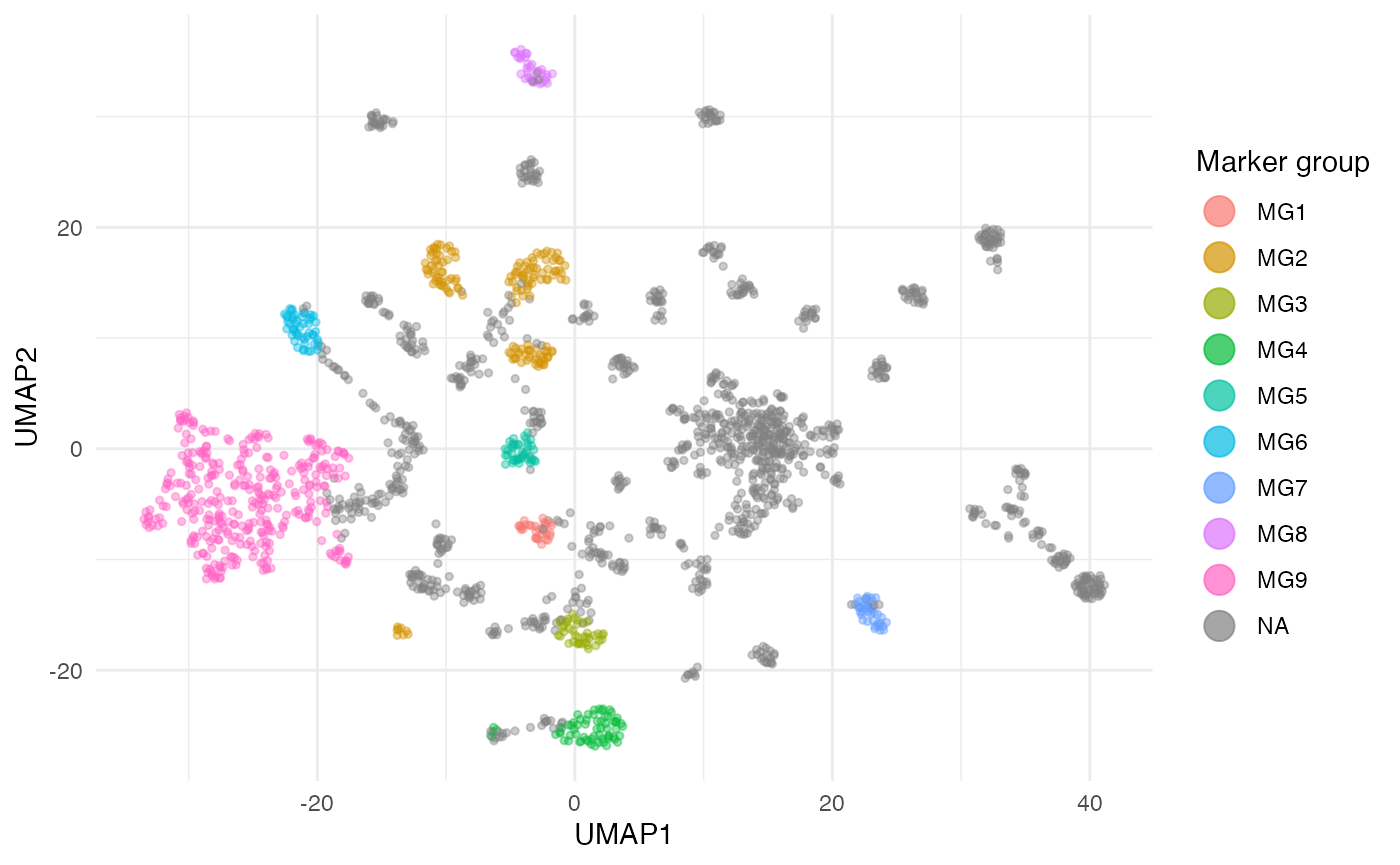
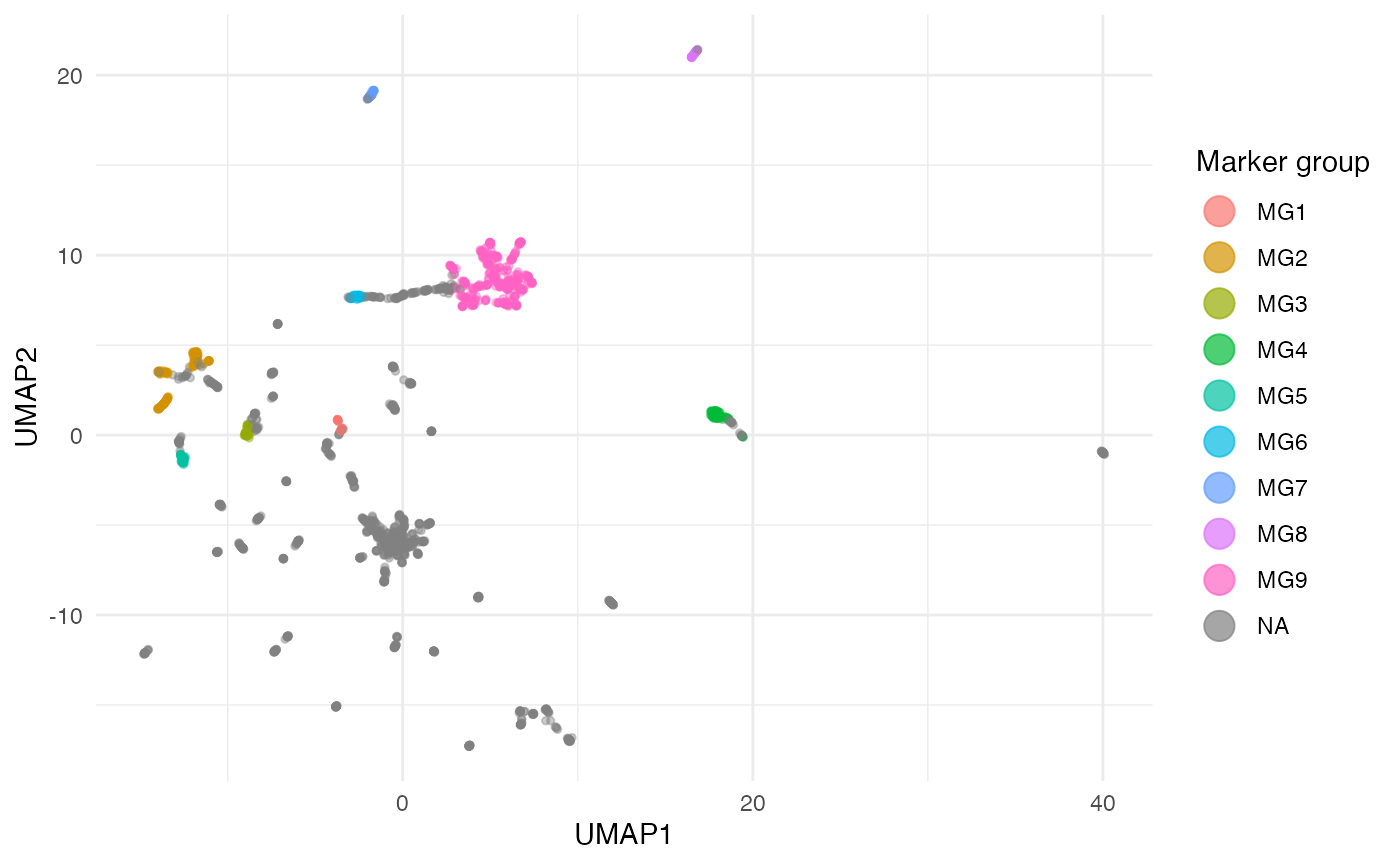
Built site for crosshap: 1.0.0@

diff --git a/reference/prepare_hap_umap.html b/reference/prepare_hap_umap.html
@@ -1,19 +1,19 @@
 <!DOCTYPE html>
 <!-- Generated by pkgdown: do not edit by hand --><html lang="en"><head><meta http-equiv="Content-Type" content="text/html; charset=UTF-8"><meta charset="utf-8"><meta http-equiv="X-UA-Compatible" content="IE=edge"><meta name="viewport" content="width=device-width, initial-scale=1, shrink-to-fit=no"><meta name="description" content="prepare_hap_umap() builds a large composite ggplot2 object ready for faceting
-and animation (see examples) for visualizing SNP alleles (coloured by marker
-group) possessed by randomly sampled individuals within each haplotype. UMAP
+and animation (see examples) for visualizing SNP alleles (coloured by Marker
+Group) possessed by randomly sampled individuals within each haplotype. UMAP
 coordinates for each SNP can be generated using umap::umap(), with the LD
 matrix generated for run_haplotyping() as input. When fully rendered and
 faceted, the resultant GIF intuitively visualizes the consistent alleles for
-marker groups SNPs for each haplotype combination, despite variation across
-non-marker group SNP alleles."><title>UMAP haplotype visualization helper — prepare_hap_umap • crosshap</title><script src="../deps/jquery-3.6.0/jquery-3.6.0.min.js"></script><meta name="viewport" content="width=device-width, initial-scale=1, shrink-to-fit=no"><link href="../deps/bootstrap-5.2.2/bootstrap.min.css" rel="stylesheet"><script src="../deps/bootstrap-5.2.2/bootstrap.bundle.min.js"></script><!-- Font Awesome icons --><link rel="stylesheet" href="https://cdnjs.cloudflare.com/ajax/libs/font-awesome/5.12.1/css/all.min.css" integrity="sha256-mmgLkCYLUQbXn0B1SRqzHar6dCnv9oZFPEC1g1cwlkk=" crossorigin="anonymous"><link rel="stylesheet" href="https://cdnjs.cloudflare.com/ajax/libs/font-awesome/5.12.1/css/v4-shims.min.css" integrity="sha256-wZjR52fzng1pJHwx4aV2AO3yyTOXrcDW7jBpJtTwVxw=" crossorigin="anonymous"><!-- bootstrap-toc --><script src="https://cdn.jsdelivr.net/gh/afeld/bootstrap-toc@v1.0.1/dist/bootstrap-toc.min.js" integrity="sha256-4veVQbu7//Lk5TSmc7YV48MxtMy98e26cf5MrgZYnwo=" crossorigin="anonymous"></script><!-- headroom.js --><script src="https://cdnjs.cloudflare.com/ajax/libs/headroom/0.11.0/headroom.min.js" integrity="sha256-AsUX4SJE1+yuDu5+mAVzJbuYNPHj/WroHuZ8Ir/CkE0=" crossorigin="anonymous"></script><script src="https://cdnjs.cloudflare.com/ajax/libs/headroom/0.11.0/jQuery.headroom.min.js" integrity="sha256-ZX/yNShbjqsohH1k95liqY9Gd8uOiE1S4vZc+9KQ1K4=" crossorigin="anonymous"></script><!-- clipboard.js --><script src="https://cdnjs.cloudflare.com/ajax/libs/clipboard.js/2.0.6/clipboard.min.js" integrity="sha256-inc5kl9MA1hkeYUt+EC3BhlIgyp/2jDIyBLS6k3UxPI=" crossorigin="anonymous"></script><!-- search --><script src="https://cdnjs.cloudflare.com/ajax/libs/fuse.js/6.4.6/fuse.js" integrity="sha512-zv6Ywkjyktsohkbp9bb45V6tEMoWhzFzXis+LrMehmJZZSys19Yxf1dopHx7WzIKxr5tK2dVcYmaCk2uqdjF4A==" crossorigin="anonymous"></script><script src="https://cdnjs.cloudflare.com/ajax/libs/autocomplete.js/0.38.0/autocomplete.jquery.min.js" integrity="sha512-GU9ayf+66Xx2TmpxqJpliWbT5PiGYxpaG8rfnBEk1LL8l1KGkRShhngwdXK1UgqhAzWpZHSiYPc09/NwDQIGyg==" crossorigin="anonymous"></script><script src="https://cdnjs.cloudflare.com/ajax/libs/mark.js/8.11.1/mark.min.js" integrity="sha512-5CYOlHXGh6QpOFA/TeTylKLWfB3ftPsde7AnmhuitiTX4K5SqCLBeKro6sPS8ilsz1Q4NRx3v8Ko2IBiszzdww==" crossorigin="anonymous"></script><!-- pkgdown --><script src="../pkgdown.js"></script><meta property="og:title" content="UMAP haplotype visualization helper — prepare_hap_umap"><meta property="og:description" content="prepare_hap_umap() builds a large composite ggplot2 object ready for faceting
-and animation (see examples) for visualizing SNP alleles (coloured by marker
-group) possessed by randomly sampled individuals within each haplotype. UMAP
+Marker Groups SNPs for each haplotype combination, despite variation across
+non-Marker Group SNP alleles."><title>UMAP haplotype visualization helper — prepare_hap_umap • crosshap</title><script src="../deps/jquery-3.6.0/jquery-3.6.0.min.js"></script><meta name="viewport" content="width=device-width, initial-scale=1, shrink-to-fit=no"><link href="../deps/bootstrap-5.2.2/bootstrap.min.css" rel="stylesheet"><script src="../deps/bootstrap-5.2.2/bootstrap.bundle.min.js"></script><!-- Font Awesome icons --><link rel="stylesheet" href="https://cdnjs.cloudflare.com/ajax/libs/font-awesome/5.12.1/css/all.min.css" integrity="sha256-mmgLkCYLUQbXn0B1SRqzHar6dCnv9oZFPEC1g1cwlkk=" crossorigin="anonymous"><link rel="stylesheet" href="https://cdnjs.cloudflare.com/ajax/libs/font-awesome/5.12.1/css/v4-shims.min.css" integrity="sha256-wZjR52fzng1pJHwx4aV2AO3yyTOXrcDW7jBpJtTwVxw=" crossorigin="anonymous"><!-- bootstrap-toc --><script src="https://cdn.jsdelivr.net/gh/afeld/bootstrap-toc@v1.0.1/dist/bootstrap-toc.min.js" integrity="sha256-4veVQbu7//Lk5TSmc7YV48MxtMy98e26cf5MrgZYnwo=" crossorigin="anonymous"></script><!-- headroom.js --><script src="https://cdnjs.cloudflare.com/ajax/libs/headroom/0.11.0/headroom.min.js" integrity="sha256-AsUX4SJE1+yuDu5+mAVzJbuYNPHj/WroHuZ8Ir/CkE0=" crossorigin="anonymous"></script><script src="https://cdnjs.cloudflare.com/ajax/libs/headroom/0.11.0/jQuery.headroom.min.js" integrity="sha256-ZX/yNShbjqsohH1k95liqY9Gd8uOiE1S4vZc+9KQ1K4=" crossorigin="anonymous"></script><!-- clipboard.js --><script src="https://cdnjs.cloudflare.com/ajax/libs/clipboard.js/2.0.6/clipboard.min.js" integrity="sha256-inc5kl9MA1hkeYUt+EC3BhlIgyp/2jDIyBLS6k3UxPI=" crossorigin="anonymous"></script><!-- search --><script src="https://cdnjs.cloudflare.com/ajax/libs/fuse.js/6.4.6/fuse.js" integrity="sha512-zv6Ywkjyktsohkbp9bb45V6tEMoWhzFzXis+LrMehmJZZSys19Yxf1dopHx7WzIKxr5tK2dVcYmaCk2uqdjF4A==" crossorigin="anonymous"></script><script src="https://cdnjs.cloudflare.com/ajax/libs/autocomplete.js/0.38.0/autocomplete.jquery.min.js" integrity="sha512-GU9ayf+66Xx2TmpxqJpliWbT5PiGYxpaG8rfnBEk1LL8l1KGkRShhngwdXK1UgqhAzWpZHSiYPc09/NwDQIGyg==" crossorigin="anonymous"></script><script src="https://cdnjs.cloudflare.com/ajax/libs/mark.js/8.11.1/mark.min.js" integrity="sha512-5CYOlHXGh6QpOFA/TeTylKLWfB3ftPsde7AnmhuitiTX4K5SqCLBeKro6sPS8ilsz1Q4NRx3v8Ko2IBiszzdww==" crossorigin="anonymous"></script><!-- pkgdown --><script src="../pkgdown.js"></script><meta property="og:title" content="UMAP haplotype visualization helper — prepare_hap_umap"><meta property="og:description" content="prepare_hap_umap() builds a large composite ggplot2 object ready for faceting
+and animation (see examples) for visualizing SNP alleles (coloured by Marker
+Group) possessed by randomly sampled individuals within each haplotype. UMAP
 coordinates for each SNP can be generated using umap::umap(), with the LD
 matrix generated for run_haplotyping() as input. When fully rendered and
 faceted, the resultant GIF intuitively visualizes the consistent alleles for
-marker groups SNPs for each haplotype combination, despite variation across
-non-marker group SNP alleles."><!-- mathjax --><script src="https://cdnjs.cloudflare.com/ajax/libs/mathjax/2.7.5/MathJax.js" integrity="sha256-nvJJv9wWKEm88qvoQl9ekL2J+k/RWIsaSScxxlsrv8k=" crossorigin="anonymous"></script><script src="https://cdnjs.cloudflare.com/ajax/libs/mathjax/2.7.5/config/TeX-AMS-MML_HTMLorMML.js" integrity="sha256-84DKXVJXs0/F8OTMzX4UR909+jtl4G7SPypPavF+GfA=" crossorigin="anonymous"></script><!--[if lt IE 9]>
+Marker Groups SNPs for each haplotype combination, despite variation across
+non-Marker Group SNP alleles."><!-- mathjax --><script src="https://cdnjs.cloudflare.com/ajax/libs/mathjax/2.7.5/MathJax.js" integrity="sha256-nvJJv9wWKEm88qvoQl9ekL2J+k/RWIsaSScxxlsrv8k=" crossorigin="anonymous"></script><script src="https://cdnjs.cloudflare.com/ajax/libs/mathjax/2.7.5/config/TeX-AMS-MML_HTMLorMML.js" integrity="sha256-84DKXVJXs0/F8OTMzX4UR909+jtl4G7SPypPavF+GfA=" crossorigin="anonymous"></script><!--[if lt IE 9]>
 <script src="https://oss.maxcdn.com/html5shiv/3.7.3/html5shiv.min.js"></script>
 <script src="https://oss.maxcdn.com/respond/1.4.2/respond.min.js"></script>
 <![endif]--></head><body>
@@ -60,13 +60,13 @@ non-marker group SNP alleles."><!-- mathjax --><script src="https://cdnjs.cloudf
 
     <div class="ref-description section level2">
     <p>prepare_hap_umap() builds a large composite ggplot2 object ready for faceting
-and animation (see examples) for visualizing SNP alleles (coloured by marker
-group) possessed by randomly sampled individuals within each haplotype. UMAP
+and animation (see examples) for visualizing SNP alleles (coloured by Marker
+Group) possessed by randomly sampled individuals within each haplotype. UMAP
 coordinates for each SNP can be generated using umap::umap(), with the LD
 matrix generated for run_haplotyping() as input. When fully rendered and
 faceted, the resultant GIF intuitively visualizes the consistent alleles for
-marker groups SNPs for each haplotype combination, despite variation across
-non-marker group SNP alleles.</p>
+Marker Groups SNPs for each haplotype combination, despite variation across
+non-Marker Group SNP alleles.</p>
     </div>
 
     <div class="section level2">

diff --git a/reference/run_haplotyping.html b/reference/run_haplotyping.html
@@ -136,20 +136,26 @@ epsilon value, needed for clustree_viz() and crosshap_viz().</p>
     <div class="section level2">
     <h2 id="ref-examples">Examples<a class="anchor" aria-label="anchor" href="#ref-examples"></a></h2>
     <div class="sourceCode"><pre class="sourceCode r"><code><span class="r-in"><span><span class="fu">run_haplotyping</span><span class="op">(</span><span class="va">vcf</span>, <span class="va">LD</span>, <span class="va">pheno</span>, <span class="va">metadata</span>, MGmin <span class="op">=</span> <span class="fl">30</span><span class="op">)</span></span></span>
-<span class="r-msg co"><span class="r-pr">#&gt;</span> <span style="color: #00BB00;">■■■■■■                          </span>  18% | ETA:  5s</span>
-<span class="r-msg co"><span class="r-pr">#&gt;</span> <span style="color: #00BB00;">■■■■■■■■                        </span>  23% | ETA:  5s</span>
-<span class="r-msg co"><span class="r-pr">#&gt;</span> <span style="color: #00BB00;">■■■■■■■■■                       </span>  27% | ETA:  8s</span>
-<span class="r-msg co"><span class="r-pr">#&gt;</span> <span style="color: #00BB00;">■■■■■■■■■■■■                    </span>  36% | ETA:  6s</span>
-<span class="r-msg co"><span class="r-pr">#&gt;</span> <span style="color: #00BB00;">■■■■■■■■■■■■■                   </span>  41% | ETA:  6s</span>
-<span class="r-msg co"><span class="r-pr">#&gt;</span> <span style="color: #00BB00;">■■■■■■■■■■■■■■■                 </span>  45% | ETA:  6s</span>
-<span class="r-msg co"><span class="r-pr">#&gt;</span> <span style="color: #00BB00;">■■■■■■■■■■■■■■■■■               </span>  55% | ETA:  5s</span>
-<span class="r-msg co"><span class="r-pr">#&gt;</span> <span style="color: #00BB00;">■■■■■■■■■■■■■■■■■■■             </span>  59% | ETA:  5s</span>
-<span class="r-msg co"><span class="r-pr">#&gt;</span> <span style="color: #00BB00;">■■■■■■■■■■■■■■■■■■■■            </span>  64% | ETA:  5s</span>
-<span class="r-msg co"><span class="r-pr">#&gt;</span> <span style="color: #00BB00;">■■■■■■■■■■■■■■■■■■■■■■■         </span>  73% | ETA:  4s</span>
-<span class="r-msg co"><span class="r-pr">#&gt;</span> <span style="color: #00BB00;">■■■■■■■■■■■■■■■■■■■■■■■■        </span>  77% | ETA:  3s</span>
-<span class="r-msg co"><span class="r-pr">#&gt;</span> <span style="color: #00BB00;">■■■■■■■■■■■■■■■■■■■■■■■■■■      </span>  82% | ETA:  3s</span>
-<span class="r-msg co"><span class="r-pr">#&gt;</span> <span style="color: #00BB00;">■■■■■■■■■■■■■■■■■■■■■■■■■■■■    </span>  91% | ETA:  1s</span>
-<span class="r-msg co"><span class="r-pr">#&gt;</span> <span style="color: #00BB00;">■■■■■■■■■■■■■■■■■■■■■■■■■■■■■■  </span>  95% | ETA:  1s</span>
+<span class="r-msg co"><span class="r-pr">#&gt;</span> <span style="color: #00BB00;">■■■■■                           </span>  13% | ETA:  7s</span>
+<span class="r-msg co"><span class="r-pr">#&gt;</span> <span style="color: #00BB00;">■■■■■■                          </span>  17% | ETA:  8s</span>
+<span class="r-msg co"><span class="r-pr">#&gt;</span> <span style="color: #00BB00;">■■■■■■■                         </span>  20% | ETA: 11s</span>
+<span class="r-msg co"><span class="r-pr">#&gt;</span> <span style="color: #00BB00;">■■■■■■■■■                       </span>  27% | ETA: 10s</span>
+<span class="r-msg co"><span class="r-pr">#&gt;</span> <span style="color: #00BB00;">■■■■■■■■■■                      </span>  30% | ETA: 10s</span>
+<span class="r-msg co"><span class="r-pr">#&gt;</span> <span style="color: #00BB00;">■■■■■■■■■■■                     </span>  33% | ETA: 11s</span>
+<span class="r-msg co"><span class="r-pr">#&gt;</span> <span style="color: #00BB00;">■■■■■■■■■■■■■                   </span>  40% | ETA: 10s</span>
+<span class="r-msg co"><span class="r-pr">#&gt;</span> <span style="color: #00BB00;">■■■■■■■■■■■■■■                  </span>  43% | ETA: 10s</span>
+<span class="r-msg co"><span class="r-pr">#&gt;</span> <span style="color: #00BB00;">■■■■■■■■■■■■■■■                 </span>  47% | ETA: 10s</span>
+<span class="r-msg co"><span class="r-pr">#&gt;</span> <span style="color: #00BB00;">■■■■■■■■■■■■■■■■■               </span>  53% | ETA:  9s</span>
+<span class="r-msg co"><span class="r-pr">#&gt;</span> <span style="color: #00BB00;">■■■■■■■■■■■■■■■■■■              </span>  57% | ETA:  8s</span>
+<span class="r-msg co"><span class="r-pr">#&gt;</span> <span style="color: #00BB00;">■■■■■■■■■■■■■■■■■■■             </span>  60% | ETA:  8s</span>
+<span class="r-msg co"><span class="r-pr">#&gt;</span> <span style="color: #00BB00;">■■■■■■■■■■■■■■■■■■■■■           </span>  67% | ETA:  7s</span>
+<span class="r-msg co"><span class="r-pr">#&gt;</span> <span style="color: #00BB00;">■■■■■■■■■■■■■■■■■■■■■■          </span>  70% | ETA:  6s</span>
+<span class="r-msg co"><span class="r-pr">#&gt;</span> <span style="color: #00BB00;">■■■■■■■■■■■■■■■■■■■■■■■         </span>  73% | ETA:  6s</span>
+<span class="r-msg co"><span class="r-pr">#&gt;</span> <span style="color: #00BB00;">■■■■■■■■■■■■■■■■■■■■■■■■■       </span>  80% | ETA:  4s</span>
+<span class="r-msg co"><span class="r-pr">#&gt;</span> <span style="color: #00BB00;">■■■■■■■■■■■■■■■■■■■■■■■■■■      </span>  83% | ETA:  4s</span>
+<span class="r-msg co"><span class="r-pr">#&gt;</span> <span style="color: #00BB00;">■■■■■■■■■■■■■■■■■■■■■■■■■■■     </span>  87% | ETA:  3s</span>
+<span class="r-msg co"><span class="r-pr">#&gt;</span> <span style="color: #00BB00;">■■■■■■■■■■■■■■■■■■■■■■■■■■■■■   </span>  93% | ETA:  2s</span>
+<span class="r-msg co"><span class="r-pr">#&gt;</span> <span style="color: #00BB00;">■■■■■■■■■■■■■■■■■■■■■■■■■■■■■■  </span>  97% | ETA:  1s</span>
 <span class="r-msg co"><span class="r-pr">#&gt;</span> <span style="color: #00BB00;">■■■■■■■■■■■■■■■■■■■■■■■■■■■■■■■ </span> 100% | ETA:  0s</span>
 <span class="r-msg co"><span class="r-pr">#&gt;</span> <span style="color: #00BB00;">✔</span> Haplotyping complete!</span>
 <span class="r-msg co"><span class="r-pr">#&gt;</span> Info saved in Haplotypes_30_E objects</span>

diff --git a/reference/crosshap_viz.html b/reference/crosshap_viz.html
@@ -111,20 +111,26 @@ summary tables or marker group phenotype scores.</p></dd>
     <div class="section level2">
     <h2 id="ref-examples">Examples<a class="anchor" aria-label="anchor" href="#ref-examples"></a></h2>
     <div class="sourceCode"><pre class="sourceCode r"><code><span class="r-in"><span><span class="fu"><a href="run_haplotyping.html">run_haplotyping</a></span><span class="op">(</span><span class="va">vcf</span>, <span class="va">LD</span>, <span class="va">pheno</span>, <span class="va">metadata</span><span class="op">)</span></span></span>
-<span class="r-msg co"><span class="r-pr">#&gt;</span> <span style="color: #00BB00;">■■■■■■                          </span>  18% | ETA:  5s</span>
-<span class="r-msg co"><span class="r-pr">#&gt;</span> <span style="color: #00BB00;">■■■■■■■■                        </span>  23% | ETA:  5s</span>
-<span class="r-msg co"><span class="r-pr">#&gt;</span> <span style="color: #00BB00;">■■■■■■■■■                       </span>  27% | ETA:  8s</span>
-<span class="r-msg co"><span class="r-pr">#&gt;</span> <span style="color: #00BB00;">■■■■■■■■■■■■                    </span>  36% | ETA:  7s</span>
-<span class="r-msg co"><span class="r-pr">#&gt;</span> <span style="color: #00BB00;">■■■■■■■■■■■■■                   </span>  41% | ETA:  6s</span>
-<span class="r-msg co"><span class="r-pr">#&gt;</span> <span style="color: #00BB00;">■■■■■■■■■■■■■■■                 </span>  45% | ETA:  7s</span>
-<span class="r-msg co"><span class="r-pr">#&gt;</span> <span style="color: #00BB00;">■■■■■■■■■■■■■■■■■               </span>  55% | ETA:  6s</span>
-<span class="r-msg co"><span class="r-pr">#&gt;</span> <span style="color: #00BB00;">■■■■■■■■■■■■■■■■■■■             </span>  59% | ETA:  5s</span>
-<span class="r-msg co"><span class="r-pr">#&gt;</span> <span style="color: #00BB00;">■■■■■■■■■■■■■■■■■■■■            </span>  64% | ETA:  5s</span>
-<span class="r-msg co"><span class="r-pr">#&gt;</span> <span style="color: #00BB00;">■■■■■■■■■■■■■■■■■■■■■■■         </span>  73% | ETA:  4s</span>
-<span class="r-msg co"><span class="r-pr">#&gt;</span> <span style="color: #00BB00;">■■■■■■■■■■■■■■■■■■■■■■■■        </span>  77% | ETA:  3s</span>
-<span class="r-msg co"><span class="r-pr">#&gt;</span> <span style="color: #00BB00;">■■■■■■■■■■■■■■■■■■■■■■■■■■      </span>  82% | ETA:  3s</span>
-<span class="r-msg co"><span class="r-pr">#&gt;</span> <span style="color: #00BB00;">■■■■■■■■■■■■■■■■■■■■■■■■■■■■    </span>  91% | ETA:  1s</span>
-<span class="r-msg co"><span class="r-pr">#&gt;</span> <span style="color: #00BB00;">■■■■■■■■■■■■■■■■■■■■■■■■■■■■■■  </span>  95% | ETA:  1s</span>
+<span class="r-msg co"><span class="r-pr">#&gt;</span> <span style="color: #00BB00;">■■■■■                           </span>  13% | ETA:  7s</span>
+<span class="r-msg co"><span class="r-pr">#&gt;</span> <span style="color: #00BB00;">■■■■■■                          </span>  17% | ETA:  8s</span>
+<span class="r-msg co"><span class="r-pr">#&gt;</span> <span style="color: #00BB00;">■■■■■■■                         </span>  20% | ETA: 11s</span>
+<span class="r-msg co"><span class="r-pr">#&gt;</span> <span style="color: #00BB00;">■■■■■■■■■                       </span>  27% | ETA: 10s</span>
+<span class="r-msg co"><span class="r-pr">#&gt;</span> <span style="color: #00BB00;">■■■■■■■■■■                      </span>  30% | ETA: 10s</span>
+<span class="r-msg co"><span class="r-pr">#&gt;</span> <span style="color: #00BB00;">■■■■■■■■■■■                     </span>  33% | ETA: 11s</span>
+<span class="r-msg co"><span class="r-pr">#&gt;</span> <span style="color: #00BB00;">■■■■■■■■■■■■■                   </span>  40% | ETA: 10s</span>
+<span class="r-msg co"><span class="r-pr">#&gt;</span> <span style="color: #00BB00;">■■■■■■■■■■■■■■                  </span>  43% | ETA: 10s</span>
+<span class="r-msg co"><span class="r-pr">#&gt;</span> <span style="color: #00BB00;">■■■■■■■■■■■■■■■                 </span>  47% | ETA: 10s</span>
+<span class="r-msg co"><span class="r-pr">#&gt;</span> <span style="color: #00BB00;">■■■■■■■■■■■■■■■■■               </span>  53% | ETA:  9s</span>
+<span class="r-msg co"><span class="r-pr">#&gt;</span> <span style="color: #00BB00;">■■■■■■■■■■■■■■■■■■              </span>  57% | ETA:  8s</span>
+<span class="r-msg co"><span class="r-pr">#&gt;</span> <span style="color: #00BB00;">■■■■■■■■■■■■■■■■■■■             </span>  60% | ETA:  8s</span>
+<span class="r-msg co"><span class="r-pr">#&gt;</span> <span style="color: #00BB00;">■■■■■■■■■■■■■■■■■■■■■           </span>  67% | ETA:  7s</span>
+<span class="r-msg co"><span class="r-pr">#&gt;</span> <span style="color: #00BB00;">■■■■■■■■■■■■■■■■■■■■■■          </span>  70% | ETA:  6s</span>
+<span class="r-msg co"><span class="r-pr">#&gt;</span> <span style="color: #00BB00;">■■■■■■■■■■■■■■■■■■■■■■■         </span>  73% | ETA:  6s</span>
+<span class="r-msg co"><span class="r-pr">#&gt;</span> <span style="color: #00BB00;">■■■■■■■■■■■■■■■■■■■■■■■■■       </span>  80% | ETA:  4s</span>
+<span class="r-msg co"><span class="r-pr">#&gt;</span> <span style="color: #00BB00;">■■■■■■■■■■■■■■■■■■■■■■■■■■      </span>  83% | ETA:  4s</span>
+<span class="r-msg co"><span class="r-pr">#&gt;</span> <span style="color: #00BB00;">■■■■■■■■■■■■■■■■■■■■■■■■■■■     </span>  87% | ETA:  3s</span>
+<span class="r-msg co"><span class="r-pr">#&gt;</span> <span style="color: #00BB00;">■■■■■■■■■■■■■■■■■■■■■■■■■■■■■   </span>  93% | ETA:  2s</span>
+<span class="r-msg co"><span class="r-pr">#&gt;</span> <span style="color: #00BB00;">■■■■■■■■■■■■■■■■■■■■■■■■■■■■■■  </span>  97% | ETA:  1s</span>
 <span class="r-msg co"><span class="r-pr">#&gt;</span> <span style="color: #00BB00;">■■■■■■■■■■■■■■■■■■■■■■■■■■■■■■■ </span> 100% | ETA:  0s</span>
 <span class="r-msg co"><span class="r-pr">#&gt;</span> <span style="color: #00BB00;">✔</span> Haplotyping complete!</span>
 <span class="r-msg co"><span class="r-pr">#&gt;</span> Info saved in Haplotypes_30_E objects</span>

diff --git a/reference/build_mid_dotplot.html b/reference/build_mid_dotplot.html
@@ -4,12 +4,12 @@ between haplotype combinations and the characteristic marker group alleles
 that define them. Makes use of the $Hapfile information from a haplotype
 object. This is an internal function called by crosshap_viz(), though can
 be called separately to build a stand-alone plot (can be useful when patched
-to a a peripheral plot)."><title>Middle MG/hap dot plot — build_mid_dotplot • crosshap</title><script src="../deps/jquery-3.6.0/jquery-3.6.0.min.js"></script><meta name="viewport" content="width=device-width, initial-scale=1, shrink-to-fit=no"><link href="../deps/bootstrap-5.2.2/bootstrap.min.css" rel="stylesheet"><script src="../deps/bootstrap-5.2.2/bootstrap.bundle.min.js"></script><!-- Font Awesome icons --><link rel="stylesheet" href="https://cdnjs.cloudflare.com/ajax/libs/font-awesome/5.12.1/css/all.min.css" integrity="sha256-mmgLkCYLUQbXn0B1SRqzHar6dCnv9oZFPEC1g1cwlkk=" crossorigin="anonymous"><link rel="stylesheet" href="https://cdnjs.cloudflare.com/ajax/libs/font-awesome/5.12.1/css/v4-shims.min.css" integrity="sha256-wZjR52fzng1pJHwx4aV2AO3yyTOXrcDW7jBpJtTwVxw=" crossorigin="anonymous"><!-- bootstrap-toc --><script src="https://cdn.jsdelivr.net/gh/afeld/bootstrap-toc@v1.0.1/dist/bootstrap-toc.min.js" integrity="sha256-4veVQbu7//Lk5TSmc7YV48MxtMy98e26cf5MrgZYnwo=" crossorigin="anonymous"></script><!-- headroom.js --><script src="https://cdnjs.cloudflare.com/ajax/libs/headroom/0.11.0/headroom.min.js" integrity="sha256-AsUX4SJE1+yuDu5+mAVzJbuYNPHj/WroHuZ8Ir/CkE0=" crossorigin="anonymous"></script><script src="https://cdnjs.cloudflare.com/ajax/libs/headroom/0.11.0/jQuery.headroom.min.js" integrity="sha256-ZX/yNShbjqsohH1k95liqY9Gd8uOiE1S4vZc+9KQ1K4=" crossorigin="anonymous"></script><!-- clipboard.js --><script src="https://cdnjs.cloudflare.com/ajax/libs/clipboard.js/2.0.6/clipboard.min.js" integrity="sha256-inc5kl9MA1hkeYUt+EC3BhlIgyp/2jDIyBLS6k3UxPI=" crossorigin="anonymous"></script><!-- search --><script src="https://cdnjs.cloudflare.com/ajax/libs/fuse.js/6.4.6/fuse.js" integrity="sha512-zv6Ywkjyktsohkbp9bb45V6tEMoWhzFzXis+LrMehmJZZSys19Yxf1dopHx7WzIKxr5tK2dVcYmaCk2uqdjF4A==" crossorigin="anonymous"></script><script src="https://cdnjs.cloudflare.com/ajax/libs/autocomplete.js/0.38.0/autocomplete.jquery.min.js" integrity="sha512-GU9ayf+66Xx2TmpxqJpliWbT5PiGYxpaG8rfnBEk1LL8l1KGkRShhngwdXK1UgqhAzWpZHSiYPc09/NwDQIGyg==" crossorigin="anonymous"></script><script src="https://cdnjs.cloudflare.com/ajax/libs/mark.js/8.11.1/mark.min.js" integrity="sha512-5CYOlHXGh6QpOFA/TeTylKLWfB3ftPsde7AnmhuitiTX4K5SqCLBeKro6sPS8ilsz1Q4NRx3v8Ko2IBiszzdww==" crossorigin="anonymous"></script><!-- pkgdown --><script src="../pkgdown.js"></script><meta property="og:title" content="Middle MG/hap dot plot — build_mid_dotplot"><meta property="og:description" content="build_mid_dotplot() builds a central dot plot displaying the relationship
+to a peripheral plot)."><title>Middle MG/hap dot plot — build_mid_dotplot • crosshap</title><script src="../deps/jquery-3.6.0/jquery-3.6.0.min.js"></script><meta name="viewport" content="width=device-width, initial-scale=1, shrink-to-fit=no"><link href="../deps/bootstrap-5.2.2/bootstrap.min.css" rel="stylesheet"><script src="../deps/bootstrap-5.2.2/bootstrap.bundle.min.js"></script><!-- Font Awesome icons --><link rel="stylesheet" href="https://cdnjs.cloudflare.com/ajax/libs/font-awesome/5.12.1/css/all.min.css" integrity="sha256-mmgLkCYLUQbXn0B1SRqzHar6dCnv9oZFPEC1g1cwlkk=" crossorigin="anonymous"><link rel="stylesheet" href="https://cdnjs.cloudflare.com/ajax/libs/font-awesome/5.12.1/css/v4-shims.min.css" integrity="sha256-wZjR52fzng1pJHwx4aV2AO3yyTOXrcDW7jBpJtTwVxw=" crossorigin="anonymous"><!-- bootstrap-toc --><script src="https://cdn.jsdelivr.net/gh/afeld/bootstrap-toc@v1.0.1/dist/bootstrap-toc.min.js" integrity="sha256-4veVQbu7//Lk5TSmc7YV48MxtMy98e26cf5MrgZYnwo=" crossorigin="anonymous"></script><!-- headroom.js --><script src="https://cdnjs.cloudflare.com/ajax/libs/headroom/0.11.0/headroom.min.js" integrity="sha256-AsUX4SJE1+yuDu5+mAVzJbuYNPHj/WroHuZ8Ir/CkE0=" crossorigin="anonymous"></script><script src="https://cdnjs.cloudflare.com/ajax/libs/headroom/0.11.0/jQuery.headroom.min.js" integrity="sha256-ZX/yNShbjqsohH1k95liqY9Gd8uOiE1S4vZc+9KQ1K4=" crossorigin="anonymous"></script><!-- clipboard.js --><script src="https://cdnjs.cloudflare.com/ajax/libs/clipboard.js/2.0.6/clipboard.min.js" integrity="sha256-inc5kl9MA1hkeYUt+EC3BhlIgyp/2jDIyBLS6k3UxPI=" crossorigin="anonymous"></script><!-- search --><script src="https://cdnjs.cloudflare.com/ajax/libs/fuse.js/6.4.6/fuse.js" integrity="sha512-zv6Ywkjyktsohkbp9bb45V6tEMoWhzFzXis+LrMehmJZZSys19Yxf1dopHx7WzIKxr5tK2dVcYmaCk2uqdjF4A==" crossorigin="anonymous"></script><script src="https://cdnjs.cloudflare.com/ajax/libs/autocomplete.js/0.38.0/autocomplete.jquery.min.js" integrity="sha512-GU9ayf+66Xx2TmpxqJpliWbT5PiGYxpaG8rfnBEk1LL8l1KGkRShhngwdXK1UgqhAzWpZHSiYPc09/NwDQIGyg==" crossorigin="anonymous"></script><script src="https://cdnjs.cloudflare.com/ajax/libs/mark.js/8.11.1/mark.min.js" integrity="sha512-5CYOlHXGh6QpOFA/TeTylKLWfB3ftPsde7AnmhuitiTX4K5SqCLBeKro6sPS8ilsz1Q4NRx3v8Ko2IBiszzdww==" crossorigin="anonymous"></script><!-- pkgdown --><script src="../pkgdown.js"></script><meta property="og:title" content="Middle MG/hap dot plot — build_mid_dotplot"><meta property="og:description" content="build_mid_dotplot() builds a central dot plot displaying the relationship
 between haplotype combinations and the characteristic marker group alleles
 that define them. Makes use of the $Hapfile information from a haplotype
 object. This is an internal function called by crosshap_viz(), though can
 be called separately to build a stand-alone plot (can be useful when patched
-to a a peripheral plot)."><!-- mathjax --><script src="https://cdnjs.cloudflare.com/ajax/libs/mathjax/2.7.5/MathJax.js" integrity="sha256-nvJJv9wWKEm88qvoQl9ekL2J+k/RWIsaSScxxlsrv8k=" crossorigin="anonymous"></script><script src="https://cdnjs.cloudflare.com/ajax/libs/mathjax/2.7.5/config/TeX-AMS-MML_HTMLorMML.js" integrity="sha256-84DKXVJXs0/F8OTMzX4UR909+jtl4G7SPypPavF+GfA=" crossorigin="anonymous"></script><!--[if lt IE 9]>
+to a peripheral plot)."><!-- mathjax --><script src="https://cdnjs.cloudflare.com/ajax/libs/mathjax/2.7.5/MathJax.js" integrity="sha256-nvJJv9wWKEm88qvoQl9ekL2J+k/RWIsaSScxxlsrv8k=" crossorigin="anonymous"></script><script src="https://cdnjs.cloudflare.com/ajax/libs/mathjax/2.7.5/config/TeX-AMS-MML_HTMLorMML.js" integrity="sha256-84DKXVJXs0/F8OTMzX4UR909+jtl4G7SPypPavF+GfA=" crossorigin="anonymous"></script><!--[if lt IE 9]>
 <script src="https://oss.maxcdn.com/html5shiv/3.7.3/html5shiv.min.js"></script>
 <script src="https://oss.maxcdn.com/respond/1.4.2/respond.min.js"></script>
 <![endif]--></head><body>
@@ -60,7 +60,7 @@ between haplotype combinations and the characteristic marker group alleles
 that define them. Makes use of the $Hapfile information from a haplotype
 object. This is an internal function called by crosshap_viz(), though can
 be called separately to build a stand-alone plot (can be useful when patched
-to a a peripheral plot).</p>
+to a peripheral plot).</p>
     </div>
 
     <div class="section level2">

diff --git a/articles/hap_UMAP.html b/articles/hap_UMAP.html
@@ -122,7 +122,7 @@ can be a useful reference for later, and can help us optimize our UMAP
 before we use it to map our individuals.</p>
 <div class="sourceCode" id="cb2"><pre class="downlit sourceCode r">
 <code class="sourceCode R"><span><span class="co">#Run UMAP on LD matrix to get x &amp; y coordinates for plotting</span></span>
-<span><span class="va">umap_in</span> <span class="op">&lt;-</span> <span class="fu">umap</span><span class="fu">::</span><span class="fu"><a href="https://rdrr.io/pkg/umap/man/umap.html" class="external-link">umap</a></span><span class="op">(</span><span class="va">LD</span>, min_dist <span class="op">=</span> <span class="fl">2</span>, spread <span class="op">=</span> <span class="fl">2.5</span>, n_neighbors <span class="op">=</span> <span class="fl">30</span><span class="op">)</span></span>
+<span><span class="va">umap_in</span> <span class="op">&lt;-</span> <span class="fu">umap</span><span class="fu">::</span><span class="fu"><a href="https://rdrr.io/pkg/umap/man/umap.html" class="external-link">umap</a></span><span class="op">(</span><span class="va">LD</span>, .min_dist <span class="op">=</span> <span class="fl">2</span>, .spread <span class="op">=</span> <span class="fl">2.5</span>, .n_neighbors <span class="op">=</span> <span class="fl">30</span><span class="op">)</span></span>
 <span></span>
 <span><span class="co">#Add UMAP coordinates to SNPs with Marker Group information</span></span>
 <span><span class="va">MGumap_data</span> <span class="op">&lt;-</span> <span class="va">umap_in</span><span class="op">$</span><span class="va">layout</span> <span class="op"><a href="../reference/pipe.html">%&gt;%</a></span> <span class="fu">tibble</span><span class="fu">::</span><span class="fu"><a href="https://tibble.tidyverse.org/reference/as_tibble.html" class="external-link">as_tibble</a></span><span class="op">(</span><span class="op">)</span> <span class="op"><a href="../reference/pipe.html">%&gt;%</a></span></span>
@@ -133,7 +133,10 @@ before we use it to map our individuals.</p>
 <span>  <span class="fu">dplyr</span><span class="fu">::</span><span class="fu"><a href="https://dplyr.tidyverse.org/reference/mutate.html" class="external-link">mutate</a></span><span class="op">(</span>MGs <span class="op">=</span> <span class="fu"><a href="https://rdrr.io/r/base/grep.html" class="external-link">gsub</a></span><span class="op">(</span><span class="st">'0'</span>, <span class="cn">NA</span>, <span class="va">MGs</span><span class="op">)</span><span class="op">)</span></span></code></pre></div>
 <pre><code><span><span class="co">## Warning: The `x` argument of `as_tibble.matrix()` must have unique column names if</span></span>
 <span><span class="co">## `.name_repair` is omitted as of tibble 2.0.0.</span></span>
-<span><span class="co">## <span style="color: #00BBBB;">ℹ</span> Using compatibility `.name_repair`.</span></span></code></pre>
+<span><span class="co">## <span style="color: #00BBBB;">ℹ</span> Using compatibility `.name_repair`.</span></span>
+<span><span class="co">## <span style="color: #555555;">This warning is displayed once every 8 hours.</span></span></span>
+<span><span class="co">## <span style="color: #555555;">Call `lifecycle::last_lifecycle_warnings()` to see where this warning was</span></span></span>
+<span><span class="co">## <span style="color: #555555;">generated.</span></span></span></code></pre>
 <div class="sourceCode" id="cb4"><pre class="downlit sourceCode r">
 <code class="sourceCode R"><span><span class="co">#Plot SNPs by UMAP coordinates, coloured by Marker Group </span></span>
 <span><span class="va">MGumap</span> <span class="op">&lt;-</span><span class="fu">ggplot2</span><span class="fu">::</span><span class="fu"><a href="https://ggplot2.tidyverse.org/reference/ggplot.html" class="external-link">ggplot</a></span><span class="op">(</span><span class="va">MGumap_data</span>, <span class="fu">ggplot2</span><span class="fu">::</span><span class="fu"><a href="https://ggplot2.tidyverse.org/reference/aes.html" class="external-link">aes</a></span><span class="op">(</span>x <span class="op">=</span> <span class="va">UMAP1</span>, y <span class="op">=</span> <span class="va">UMAP2</span><span class="op">)</span><span class="op">)</span> <span class="op">+</span></span>
@@ -145,7 +148,7 @@ before we use it to map our individuals.</p>
 <p><img src="hap_UMAP_files/figure-html/unnamed-chunk-2-1.png" width="700"></p>
 <details><summary><strong>What haplotypes do these Marker Groups define?</strong>
 </summary><div class="sourceCode" id="cb5"><pre class="downlit sourceCode r">
-<code class="sourceCode R"><span><span class="fu"><a href="../reference/build_mid_dotplot.html">build_mid_dotplot</a></span><span class="op">(</span><span class="va">Haplotypes_MGmin30_E0.6</span>, hide_labels <span class="op">=</span> <span class="cn">F</span><span class="op">)</span></span></code></pre></div>
+<code class="sourceCode R"><span><span class="fu">crosshap</span><span class="fu">::</span><span class="fu"><a href="../reference/build_mid_dotplot.html">build_mid_dotplot</a></span><span class="op">(</span><span class="va">Haplotypes_MGmin30_E0.6</span>, hide_labels <span class="op">=</span> <span class="cn">F</span><span class="op">)</span></span></code></pre></div>
 <p><img src="hap_UMAP_files/figure-html/unnamed-chunk-3-1.png" width="700"></p>
 </details><p>A full guide to optimizing UMAP parameters is beyond the scope of
 this tutorial, but the MGumap plot we’ve created should be able to help
